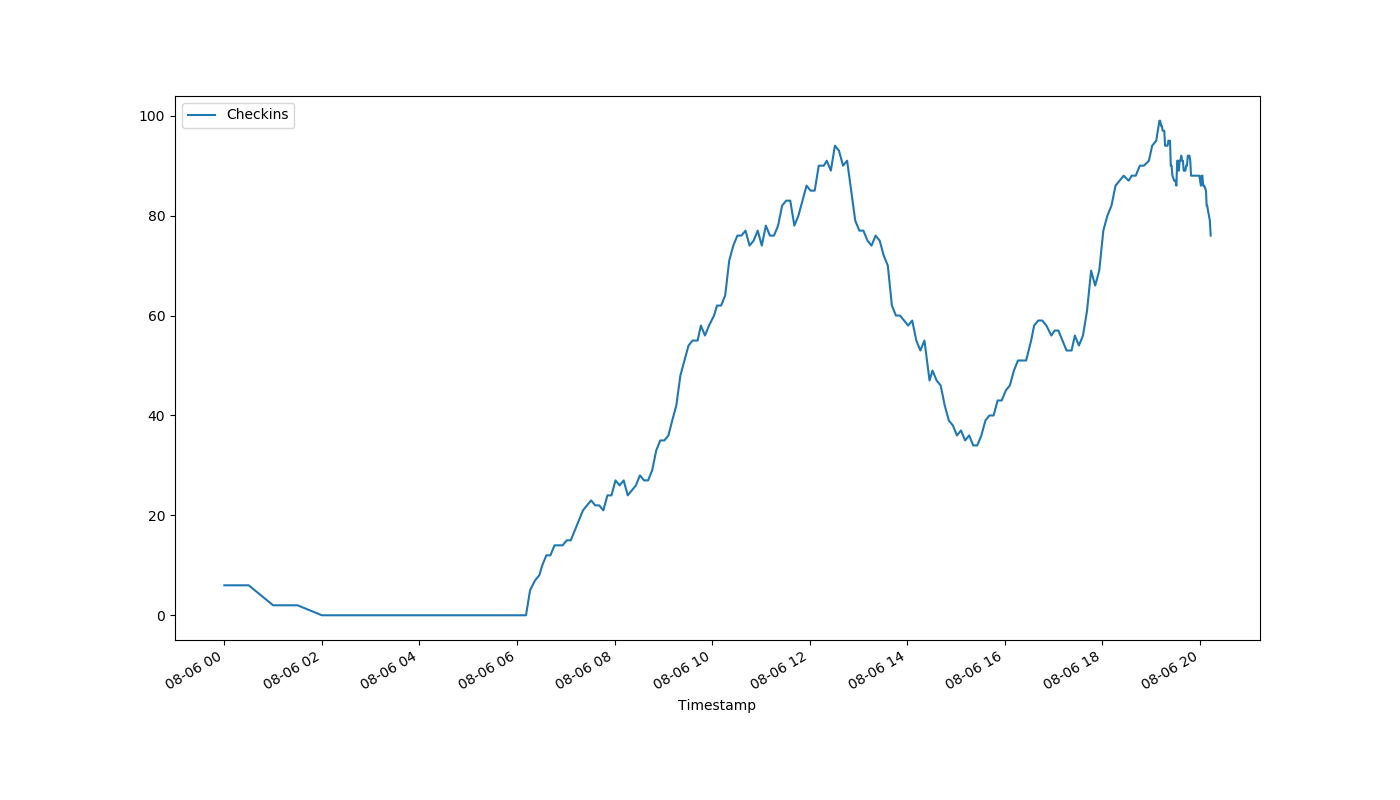
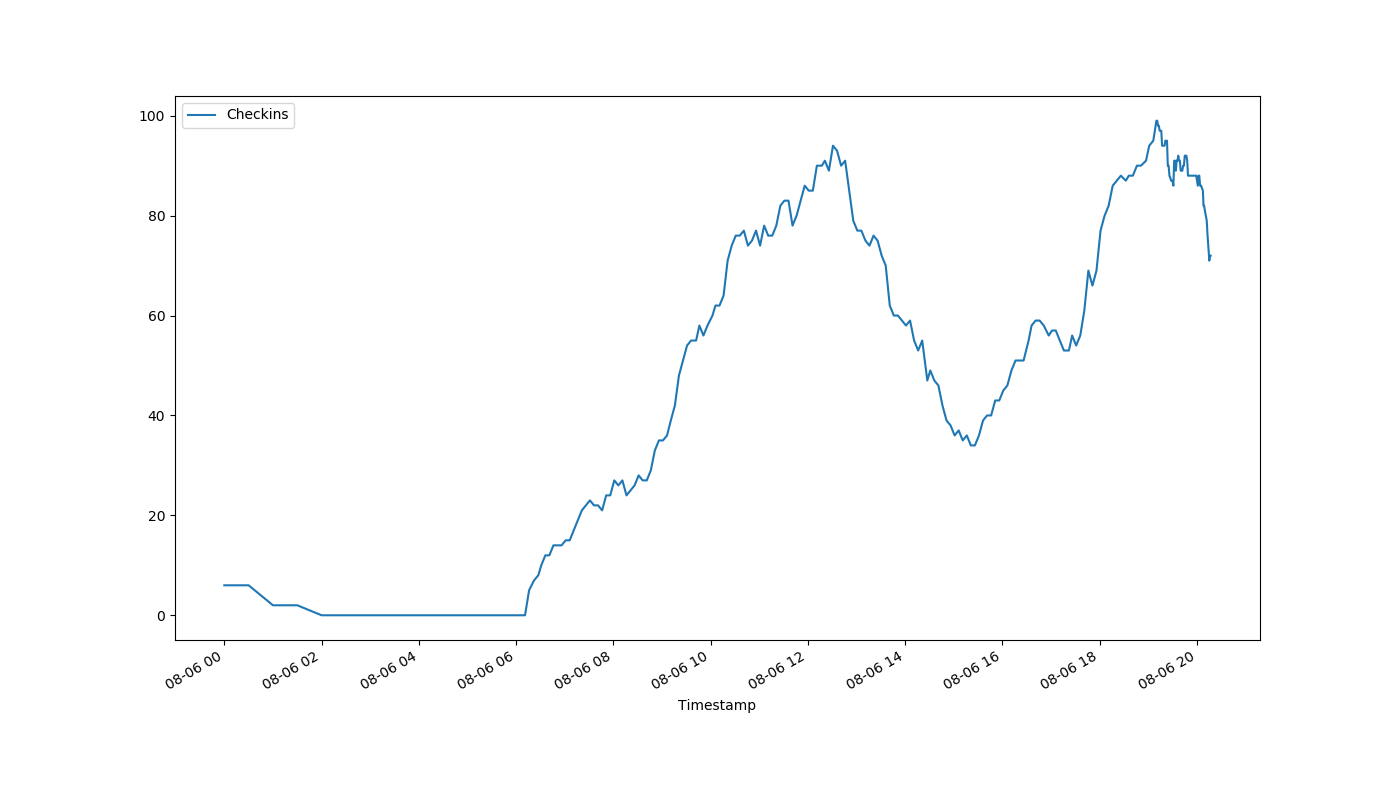
auto-Aug-06-20:17:36

diff --git a/index.html b/index.html
@@ -1,1 +1,1 @@
-<!DOCTYPE html><html><head><meta http-equiv="refresh" content="15"><link rel='stylesheet' href='holmcurrent.css'></head><body><p id='count'>76</p><div id='graph-wrap'><img id='graph' src='holmgraph-Aug-06.png'></div><p id='updated'>Last updated 20:14:13 / 20:13:17</p></body></html>
+<!DOCTYPE html><html><head><meta http-equiv="refresh" content="15"><link rel='stylesheet' href='holmcurrent.css'></head><body><p id='count'>72</p><div id='graph-wrap'><img id='graph' src='holmgraph-Aug-06.png'></div><p id='updated'>Last updated 20:17:14 / 20:17:08</p></body></html>
